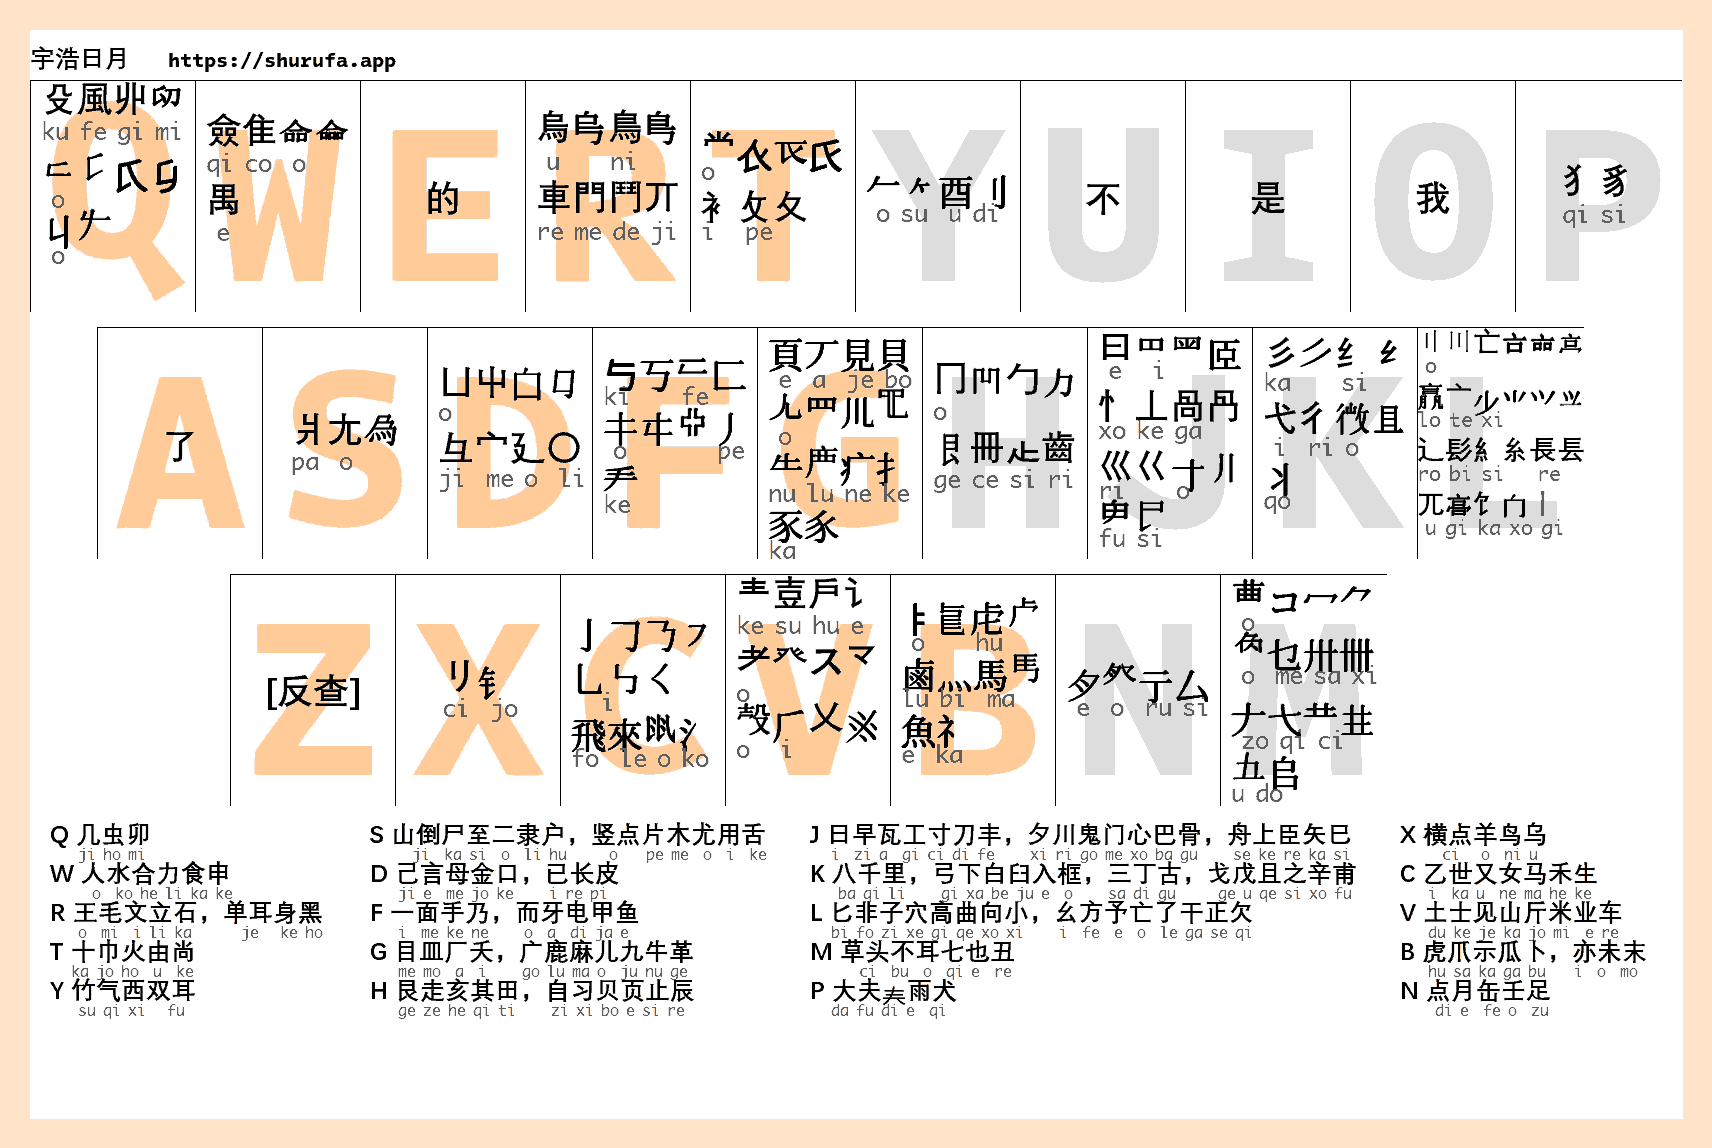
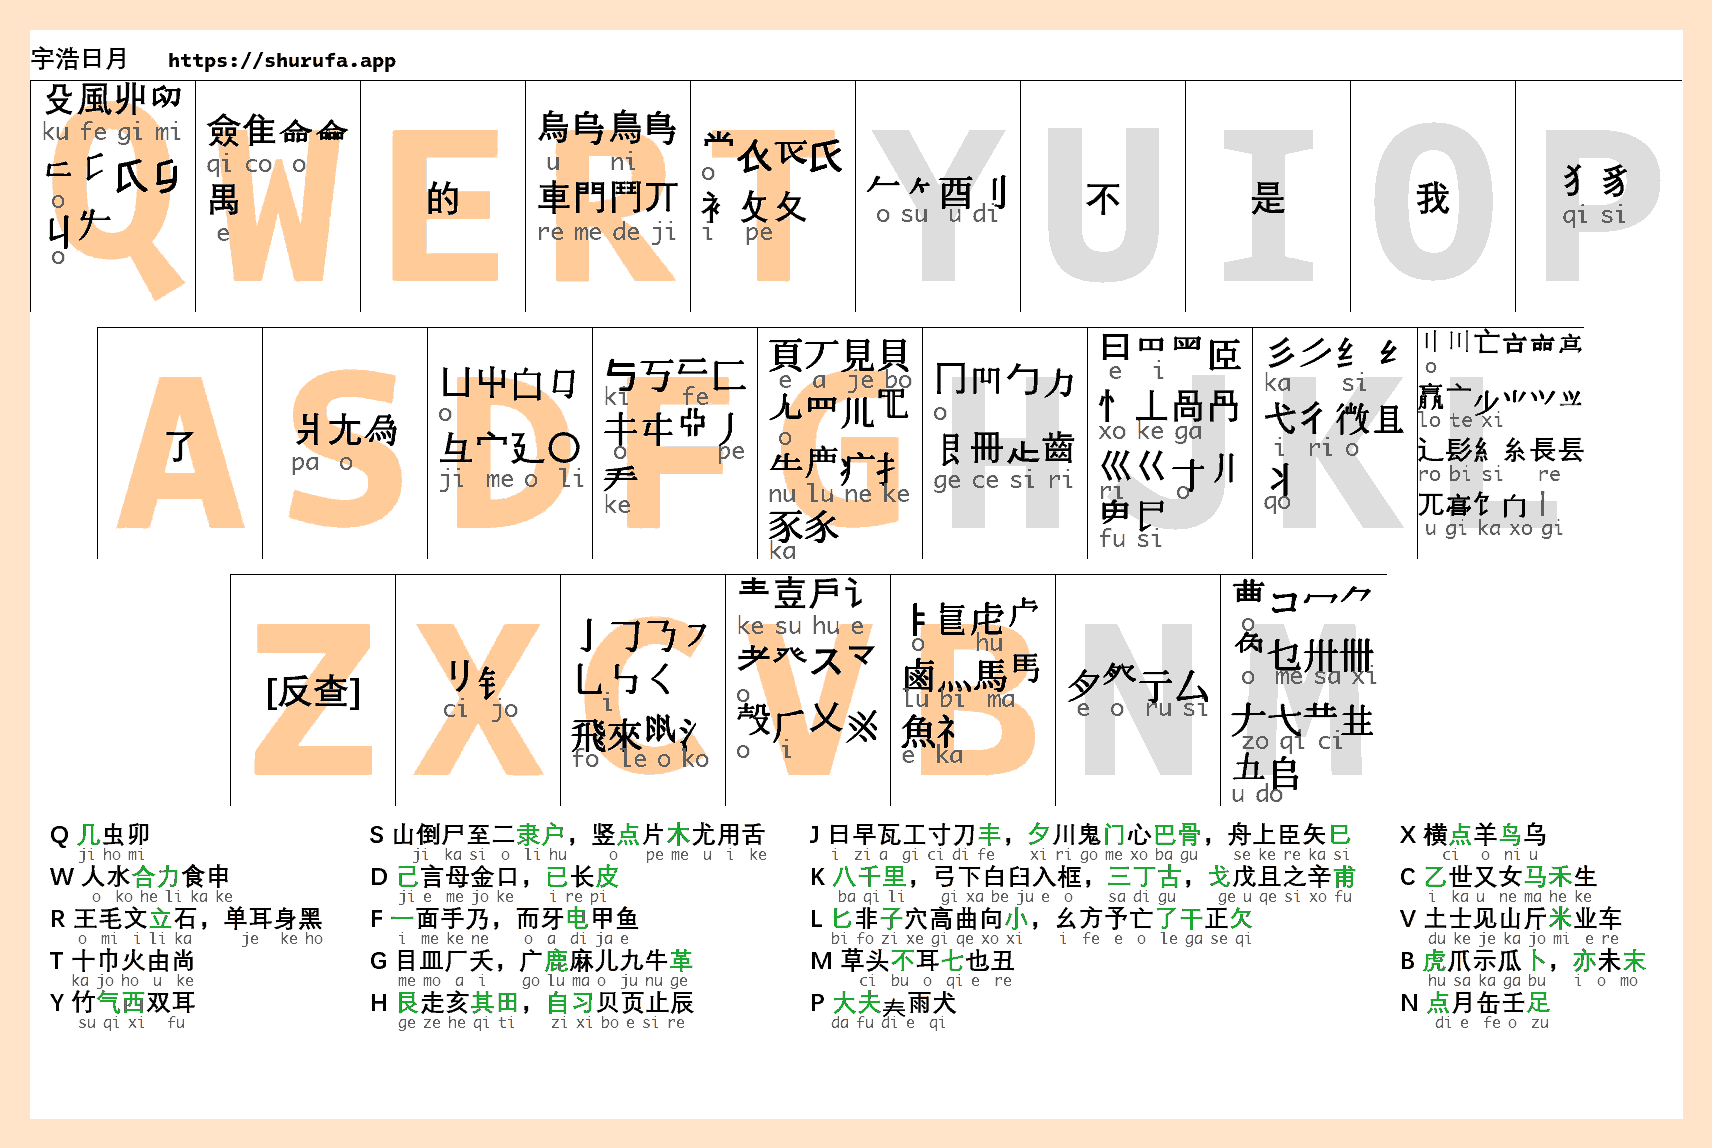
gai11

Changed region(s): [[0.4644, 0.7012, 0.9597, 0.8841], [0.2167, 0.7012, 0.4025, 0.9146], [0.031, 0.7317, 0.1857, 0.8841]]

diff --git a/宇浩日月字根/字根图.py b/宇浩日月字根/字根图.py
@@ -25,7 +25,7 @@ mnemonic1: str = (
 )
 mnemonic2: str = (
     "S 山倒尸至二隶户，竖点片木尤用舌\n"
-    "      ji  ka si  o  li hu      o    pe me  o  i  ke\n"
+    "      ji  ka si  o  li hu      o    pe me  u  i  ke\n"
     "D 己言母金口，已长皮\n"
     "    ji e  me jo ke     i re pi\n"
     "F 一面手乃，而牙电甲鱼\n"
@@ -89,7 +89,7 @@ class Handle:
         for i, c in enumerate(mnemonic):
             if c == '\n':
                 if last_c_is_alpha:
-                    cur_y += (alpha_height // 2)
+                    cur_y += (alpha_height // 1.5)
                 elif not last_c_is_alpha:
                     cur_y += (c_height + c_height // 3)
                 cur_x = n_x
@@ -100,7 +100,14 @@ class Handle:
                 draw.text(xy=(cur_x, cur_y - 8), text=c, fill=(95, 95, 95), font=font)
             else:
                 last_c_is_alpha = False
-                draw.text(xy=(cur_x, cur_y), text=c, fill="black", font=font)
+                if c in {"几", "合", "力", "立", "气", "西", "隶", "户", "木", "己", "已", "皮", "一", "电",
+                         "鹿", "革", "艮", "其", "田", "自", "习", "丰", "夕", "门", "巴", "骨", "巳", "八",
+                         "千", "里", "三", "丁", "古", "戈", "甫", "匕", "子", "小", "了", "干", "欠", "不",
+                         "七", "大", "夫", "鸟", "乙", "马", "禾", "米", "虎", "卜", "亦", "末", "点", "足"
+                         }:
+                    draw.text(xy=(cur_x, cur_y), text=c, fill=(26, 170, 47), font=font)
+                else:
+                    draw.text(xy=(cur_x, cur_y), text=c, fill="black", font=font)
             bbox = font.getbbox(c)
             c_width = bbox[2] - bbox[0]
             cur_x += c_width